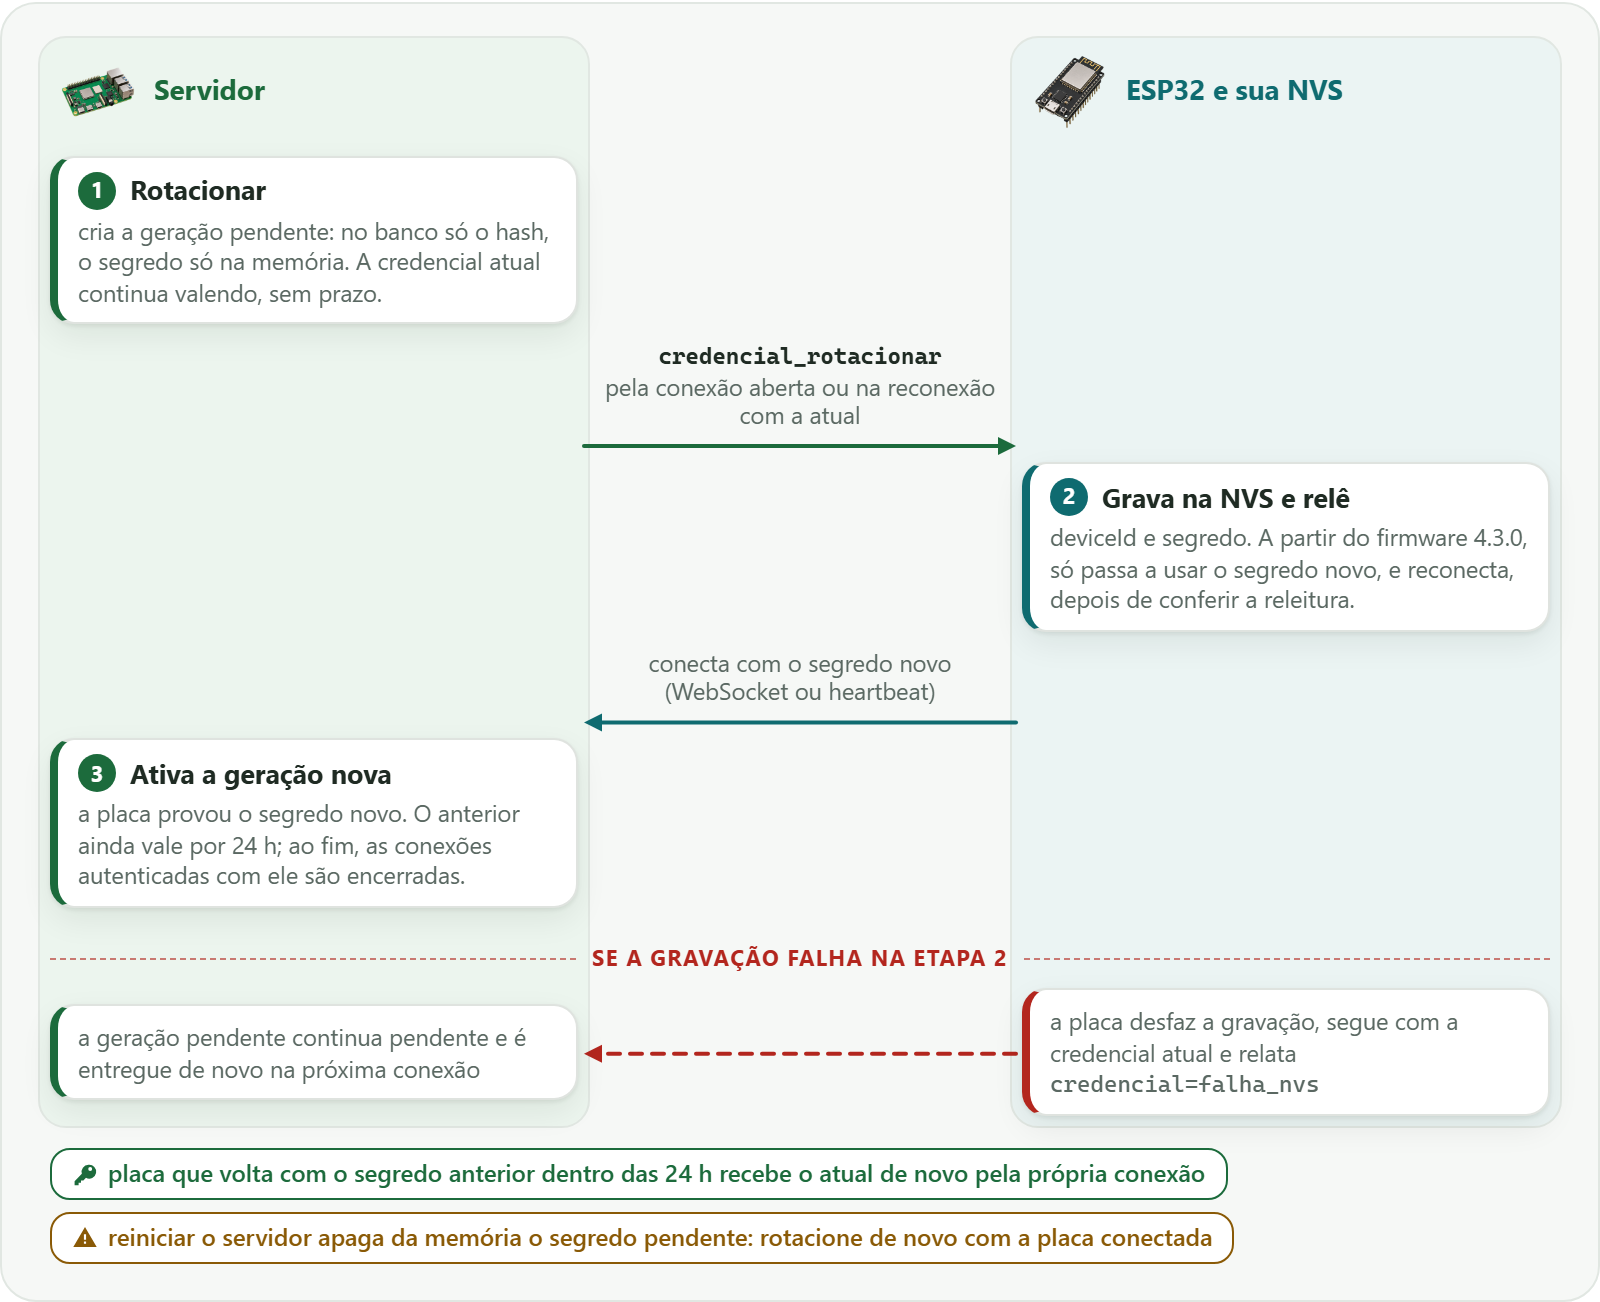
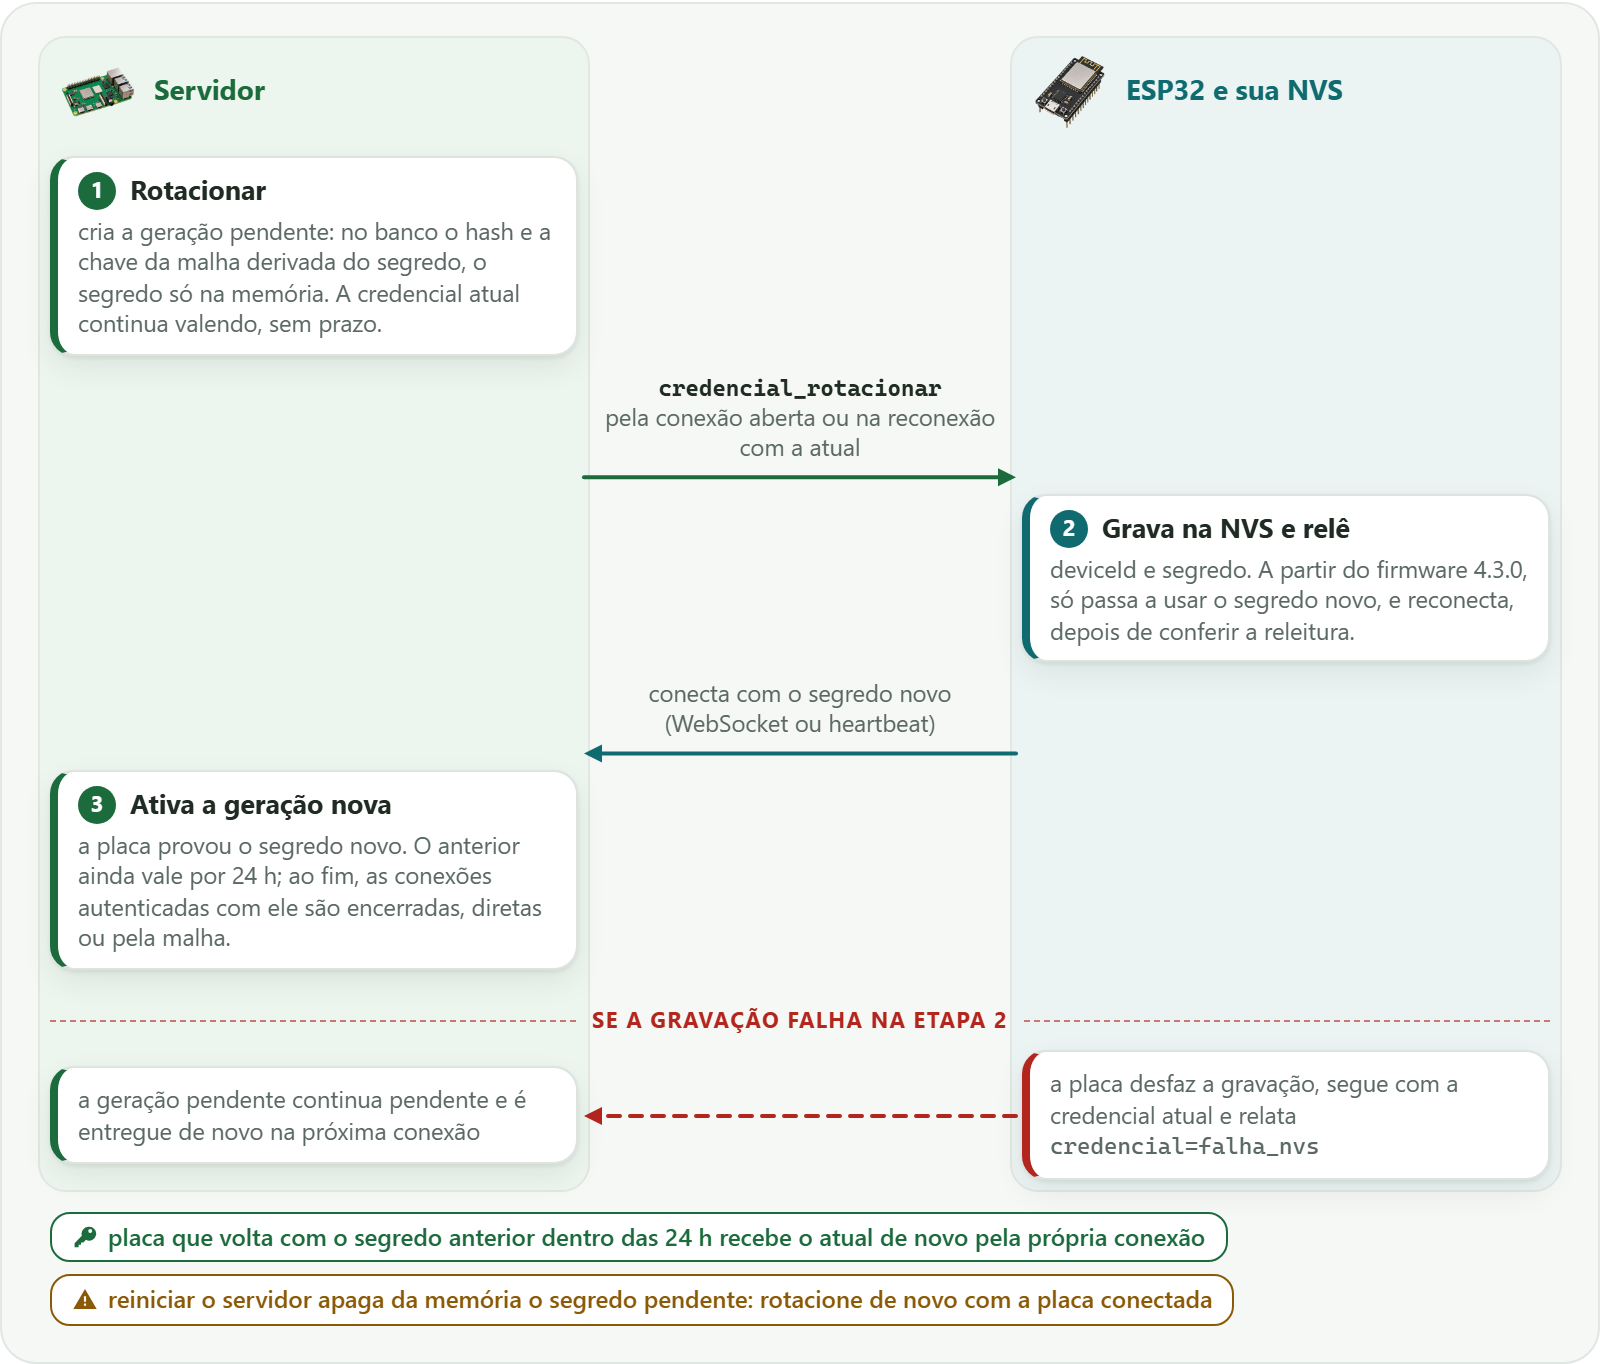
Correct the README, figures and in-app manual against the code
- Network restriction: scope and deliberate exceptions, TRUST_PROXY behaviour
  with a local proxy; BIND_ADDR row; CORS_ORIGIN guidance.
- Quick start uses bash setup.sh (npm cannot run before Node exists) and is
  stated to be development mode; HTTPS/LAN trade-off; certbot needs port 80
  and boards use HTTPS after https-setup.sh; SSH before ufw.
- Deployment: the Console uses its own implementation, the scripts are the
  terminal path; deploy auto-reverts, rollback does not; pre-update and
  pre-rollback backups; the /health polling bound; lock rules.
- Accounts: the initial account is created only in an empty database; level-3
  recovery; reset-admin --stdin; bcrypt's 72-byte limit.
- Room seed runs at every start; discovery is unauthenticated and bounded;
  setup AP password is the public shared default; MAC rule for credentialed
  rooms; repository protections include secret scanning.
- Figures: credential rotation (the derived mesh key is stored too; sessions
  end with the grace period, direct or mesh), IR cloning (recent captures are
  in memory, saved ones in protocolos_ir), update/recovery labels.

diff --git a/remoteifes-server/src/services/documentation/superInfrastructure.js b/remoteifes-server/src/services/documentation/superInfrastructure.js
@@ -85,12 +85,12 @@ module.exports = [
     categoria: "super_infra",
     tags: ["setup", "Node", "SQLite", "primeiro acesso", "produção"],
     corpo: [
-      { t: "comando", titulo: "Instalação rápida em macOS/Linux", comandos: C.instalacao, quando: "Primeira instalação ou ambiente de desenvolvimento integrado.", preRequisitos: "Clone completo; bash; rede para baixar Node/dependências quando ausentes.", resultado: "Node 22.13+ é verificado/instalado, dependências são instaladas, .env.example vira .env somente se ainda não existir, e o servidor inicia em 8080 por padrão.", risco: "Revise .env antes de produção; setup não sobrescreve um .env existente." },
+      { t: "comando", titulo: "Instalação rápida em macOS/Linux", comandos: C.instalacao, quando: "Primeira instalação ou ambiente de desenvolvimento integrado.", preRequisitos: "Clone completo; bash; rede para baixar Node/dependências quando ausentes.", resultado: "Node 22.13+ é verificado/instalado (o arquivo baixado é conferido pelo SHA-256 publicado), dependências são instaladas, .env.example vira .env somente se ainda não existir, e o servidor inicia em 8080 por padrão, em modo de desenvolvimento.", risco: "O modo de desenvolvimento não aplica a restrição de rede e aceita qualquer origem; revise .env antes de produção. O setup não sobrescreve um .env existente." },
       { t: "p", texto: "O primeiro startup cria/migra o SQLite e semeia as salas. Não existe comando separado de migração. Se <code>SENHA_ADMIN_INICIAL</code> estiver vazia em banco novo, a conta inicial é <strong>superadmin/admin</strong> e exibe aviso persistente para troca." },
       { t: "comando", titulo: "Iniciar (todas as vezes seguintes)", comandos: C.iniciar, quando: "Operação supervisionada ou validação manual; em Linux/Raspberry Pi, o serviço systemd faz isso sozinho e o ciclo de vida do dia a dia fica no console.", preRequisitos: "Instalação já feita; execute em remoteifes-server com .env revisado.", resultado: "Express serve website, API e WebSockets na mesma origem, em 8080 por padrão.", risco: "Não abra uma segunda instância sobre o mesmo banco: se a porta estiver ocupada, use ou pare a instância existente." },
       { t: "comando", titulo: "Desenvolvimento do servidor (em vez de npm start)", comandos: C.desenvolvimento, quando: "Somente enquanto se altera o código do servidor.", preRequisitos: "Os mesmos de npm start; não deixe npm start rodando ao mesmo tempo.", resultado: "O mesmo conjunto integrado, reiniciando o processo ao alterar arquivos do servidor.", risco: "Não use npm run dev como gerenciador de produção." },
-      { t: "comando", titulo: "Instalar o serviço systemd (uma vez)", comandos: C.servicoInstalar, quando: "Primeiro provisionamento Linux/Raspberry Pi, antes de instalar o console.", preRequisitos: "npm run setup concluído; sudo; .env e diretório persistente revisados. Execute em remoteifes-server.", resultado: "remoteifes.service inicia no boot e reinicia em falha; o timer de health verifica a cada 2 min e recupera após 3 falhas consecutivas; o instalador grava NODE_ENV=production e pergunta as redes autorizadas.", risco: "Reexecutar refaz as unidades do systemd; confira o .env antes." },
-      { t: "nota", texto: "Em Windows, o README orienta npm install e cópia manual de .env.example, porque npm run setup usa bash. Produção Linux/Raspberry Pi deve seguir systemd e o Console de Operações." },
+      { t: "comando", titulo: "Instalar o serviço systemd (uma vez)", comandos: C.servicoInstalar, quando: "Primeiro provisionamento Linux/Raspberry Pi, antes de instalar o console.", preRequisitos: "bash setup.sh concluído; sudo; .env e diretório persistente revisados. Execute em remoteifes-server.", resultado: "remoteifes.service inicia no boot e reinicia em falha; o timer de health verifica a cada 2 min e recupera após 3 falhas consecutivas; o instalador grava NODE_ENV=production e pergunta as redes autorizadas.", risco: "Reexecutar refaz as unidades do systemd; confira o .env antes." },
+      { t: "nota", texto: "Em Windows, o README orienta npm install e cópia manual de .env.example, porque setup.sh usa bash. Produção Linux/Raspberry Pi deve seguir systemd e o Console de Operações." },
       { t: "links", itens: [{ id: "console-operacoes", texto: "Console de Operações" }] },
     ],
   },
@@ -226,7 +226,7 @@ module.exports = [
       { t: "p", texto: "Em <strong>Console de Operações &gt; Dados e recuperação</strong>, a ação <em>Redefinir a senha do superadministrador</em> instala uma nova senha na conta de nível 3 desta aplicação. A senha é enviada no corpo da requisição e entregue ao processo por entrada padrão: não aparece em linha de comando, em <code>ps</code>, em log nem na auditoria." },
       { t: "p", texto: "A conta é escolhida pelo <strong>nível</strong>, não pelo nome: o login padrão mudou de <code>admin</code> para <code>superadmin</code> e pode ter sido renomeado. Só as sessões <strong>dessa conta</strong> são encerradas; as demais continuam válidas — um reinício do serviço é que encerra todas." },
       { t: "nota", nivel: "seguranca", texto: "A recuperação pelo console exige operador autenticado e reautenticação. Ela não define senha padrão: um valor conhecido como <code>admin</code> é recusado." },
-      { t: "comando", titulo: "Redefinir pelo terminal (emergência)", comandos: C.recuperacaoConta, quando: "Console indisponível ou aplicação sem login utilizável.", preRequisitos: "Acesso autorizado ao host e ao mesmo .env/banco; execute em remoteifes-server.", resultado: "Define a senha escolhida ou, sem argumento, restaura admin; nenhuma senha é impressa e as sessões da conta são encerradas.", risco: "Sem argumento volta a uma senha pública e fraca. Entre imediatamente, troque-a e verifique o acesso ao host. O caminho do console não tem esse fallback." },
+      { t: "comando", titulo: "Redefinir pelo terminal (emergência)", comandos: C.recuperacaoConta, quando: "Console indisponível ou aplicação sem login utilizável.", preRequisitos: "Acesso autorizado ao host e ao mesmo .env/banco; execute em remoteifes-server.", resultado: "Define a senha lida da entrada padrão (fora da linha de comando, do histórico e do ps) ou, sem argumento, restaura admin; nenhuma senha é impressa e as sessões da conta são encerradas. Uma entrada vazia ou inválida não altera nada.", risco: "Sem argumento volta a uma senha pública e fraca. Entre imediatamente, troque-a e verifique o acesso ao host. A senha como argumento (npm run reset-admin -- <senha>) ainda é aceita, mas fica no histórico e no ps. O caminho do console não tem o fallback para admin." },
       { t: "links", itens: [{ id: "console-operacoes", texto: "Console de Operações" }] },
     ],
   },

diff --git a/docs/readme-assets/src/credential-rotation.html b/docs/readme-assets/src/credential-rotation.html
@@ -7,7 +7,8 @@
 <style>
   /* Source: remoteifes-server/src/services/esp32CredenciaisService.js (rotacionar,
      entregarPendente, verificar -> ativarPendente, GRACE_ROTACAO_MS, reentregarAtual),
-     services/deviceHub.js (entrega na conexão, encerrarSeCredencialExpirou) and
+     services/deviceHub.js (entrega na conexão, encerrarSeCredencialExpirou), services/meshService.js
+     (sessões da malha com o prazo da geração anterior) and
      remoteifes-esp32/src/main.ino (aplicarCredencial: grava e relê na NVS). */
   .seq { position: relative; display: grid; grid-template-columns: 264px 1fr 264px; row-gap: 8px; }
   .raia {
@@ -62,7 +63,7 @@
 
     <div class="cartao tom-verde passo c1" id="s1">
       <div class="titulo"><span class="n">1</span>Rotacionar</div>
-      <div class="sub">cria a geração pendente: no banco só o hash, o segredo só na memória. A credencial atual continua valendo, sem prazo.</div>
+      <div class="sub">cria a geração pendente: no banco o hash e a chave da malha derivada do segredo, o segredo só na memória. A credencial atual continua valendo, sem prazo.</div>
     </div>
 
     <div class="msg"><i class="ponta a" id="m1a"></i><div class="rotulo"><b>credencial_rotacionar</b><br>pela conexão aberta ou na reconexão com a atual</div><i class="ponta b" id="m1b"></i></div>
@@ -76,7 +77,7 @@
 
     <div class="cartao tom-verde passo c1" id="s2">
       <div class="titulo"><span class="n">3</span>Ativa a geração nova</div>
-      <div class="sub">a placa provou o segredo novo. O anterior ainda vale por 24 h; ao fim, as conexões autenticadas com ele são encerradas.</div>
+      <div class="sub">a placa provou o segredo novo. O anterior ainda vale por 24 h; ao fim, as conexões autenticadas com ele são encerradas, diretas ou pela malha.</div>
     </div>
 
     <div class="separador">se a gravação falha na etapa 2</div>

diff --git a/remoteifes-server/src/services/documentation/superDevices.js b/remoteifes-server/src/services/documentation/superDevices.js
@@ -71,7 +71,7 @@ module.exports = [
         "Se usar credencial, informe <strong>deviceId</strong> e segredo juntos. Deixar ambos vazios preserva uma credencial já gravada.",
         "Salve. A placa reinicia, encerra o AP, conecta ao Wi-Fi e ao WebSocket do servidor. Confirme detecção, vínculo da sala, IP e versão em <strong>Administração &gt; Dispositivos &gt; Cadastro</strong>.",
       ] },
-      { t: "nota", nivel: "seguranca", texto: "Enquanto o AP estiver aberto e sem senha, qualquer pessoa ao alcance do rádio alcança o portal e pode reprovisionar a placa. Onde o acesso físico não for controlado, ative <strong>Exigir senha na rede de configuração dos ESP32</strong> em Configurações. Essa opção é do Wi-Fi local e não substitui a credencial do dispositivo no servidor; nunca registre o segredo no manual, em relato ou em log." },
+      { t: "nota", nivel: "seguranca", texto: "Enquanto o AP estiver aberto, quem estiver ao alcance do rádio alcança o portal e pode reprovisionar a placa, inclusive apontá-la para outro servidor, que passaria a receber a credencial dela. <strong>Exigir senha na rede de configuração dos ESP32</strong>, em Configurações, usa a senha padrão do firmware, que é pública e igual em todas as placas: afasta a conexão casual, não quem conhece o projeto. Abra o portal só com alguém junto da placa e mantenha o botão protegido. Essa opção é do Wi-Fi local e não substitui a credencial do dispositivo no servidor; nunca registre o segredo no manual, em relato ou em log." },
       { t: "p", texto: "Se falhar, use o monitor serial para distinguir autenticação Wi-Fi, DNS/host, porta, TLS e WebSocket. Sem configuração válida a placa permanece no AP; com configuração, o clique curto no switch reabre o portal a qualquer momento, independentemente da rede institucional." },
     ],
   },

diff --git a/docs/readme-assets/src/ir-cloning.html b/docs/readme-assets/src/ir-cloning.html
@@ -6,7 +6,7 @@
 <link rel="stylesheet" href="tema.css">
 <style>
   /* Source: remoteifes-server/src/routes/protocolosIrRoutes.js (clonador, modo clone, salvar,
-     failsafe, aplicar), services/deviceHub.js (MAX_CAPTURAS_ARMAZENADAS), services/
+     failsafe, aplicar), services/deviceHub.js (MAX_CAPTURAS_ARMAZENADAS, em memória), services/
      protocolosIrService.js (isKnown), remoteifes-esp32/src/main.ino (captura, failsafe na NVS). */
   .fluxo { display: grid; grid-template-columns: 188px 212px 1fr; grid-template-rows: auto auto; column-gap: 62px; row-gap: 34px; align-items: center; }
   .placa { padding: 6px 10px 6px 6px; gap: 6px; }
@@ -56,11 +56,11 @@
     <div class="cartao tom-verde" id="biblioteca">
       <div class="cabeca">
         <img class="modulo" src="../modules/database.png" alt="">
-        <div><div class="titulo">Biblioteca IR</div><div class="sub">no servidor, tabela protocolos_ir</div></div>
+        <div><div class="titulo">Biblioteca IR</div><div class="sub">no servidor; o que é salvo fica na tabela protocolos_ir</div></div>
       </div>
       <ul>
-        <li>guarda as <b>20 capturas</b> recentes da clonadora</li>
-        <li><b>salvar</b> dá nome à captura; o navegador manda o id, nunca o RAW</li>
+        <li>guarda <b>em memória</b> as <b>20 capturas</b> recentes da clonadora</li>
+        <li><b>salvar</b> dá nome à captura e a grava no banco; o navegador manda o id, nunca o RAW</li>
         <li><b>failsafe OFF</b>: a captura do botão de desligar, anexada ao protocolo</li>
         <li>só protocolo <b>reconhecido</b> vira protocolo da sala; RAW genérico é só testado e retransmitido</li>
       </ul>

diff --git a/remoteifes-server/src/services/documentation/commands.js b/remoteifes-server/src/services/documentation/commands.js
@@ -4,7 +4,7 @@
 // sequence.
 const congelar = (lista) => Object.freeze(lista);
 
-const instalacao = congelar(["cd remoteifes-server", "npm run setup", "npm start"]);
+const instalacao = congelar(["cd remoteifes-server", "bash setup.sh", "npm start"]);
 const iniciar = congelar(["cd remoteifes-server", "npm start"]);
 const desenvolvimento = congelar(["npm run dev"]);
 
@@ -52,7 +52,10 @@ const credenciaisConsultar = congelar(["npm run credencial -- A-101"]);
 const credenciaisEmitir = congelar(["npm run credencial -- A-101 --provisionar", "npm run credencial -- A-101 --rotacionar"]);
 const credenciaisDerrubar = congelar(["npm run credencial -- A-101 --substituir", "npm run credencial -- A-101 --revogar"]);
 
-const recuperacaoConta = congelar(["npm run reset-admin -- umaSenhaEscolhida", "npm run reset-admin"]);
+const recuperacaoConta = congelar([
+  "read -rsp 'Nova senha: ' SENHA && echo && printf '%s' \"$SENHA\" | npm run reset-admin -- --stdin; unset SENHA",
+  "npm run reset-admin",
+]);
 const carga = congelar(["npm run carga -- --salas 86 --minutos 2"]);
 
 const androidPreparo = congelar(["cd remoteifes-cordova", "npm ci", "npm run validate"]);
